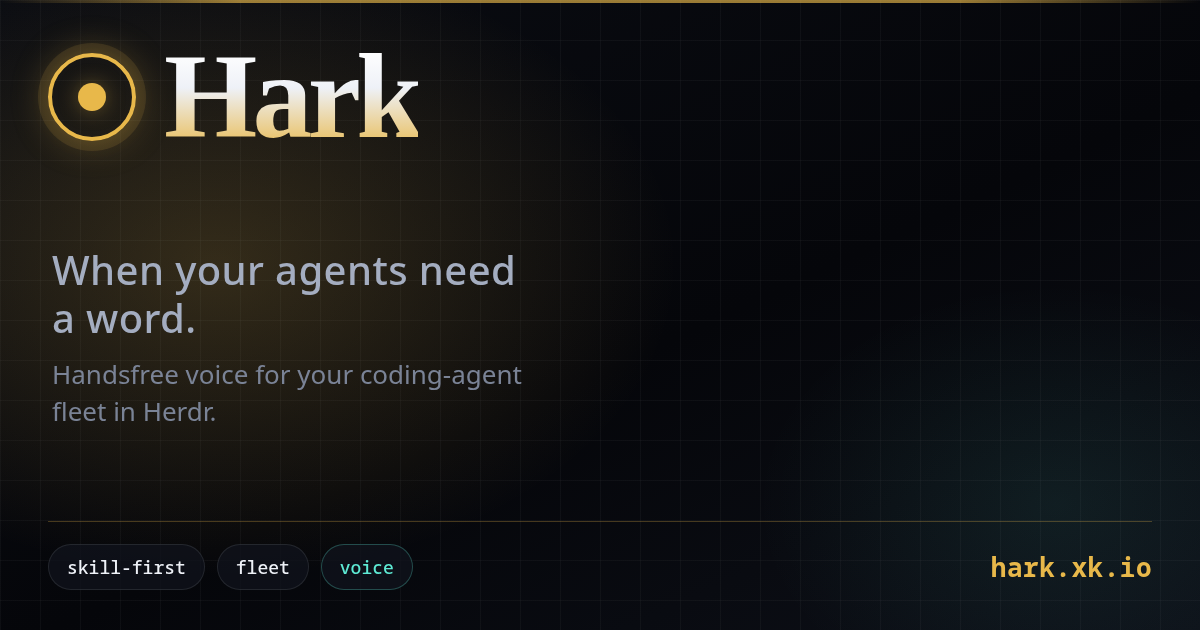
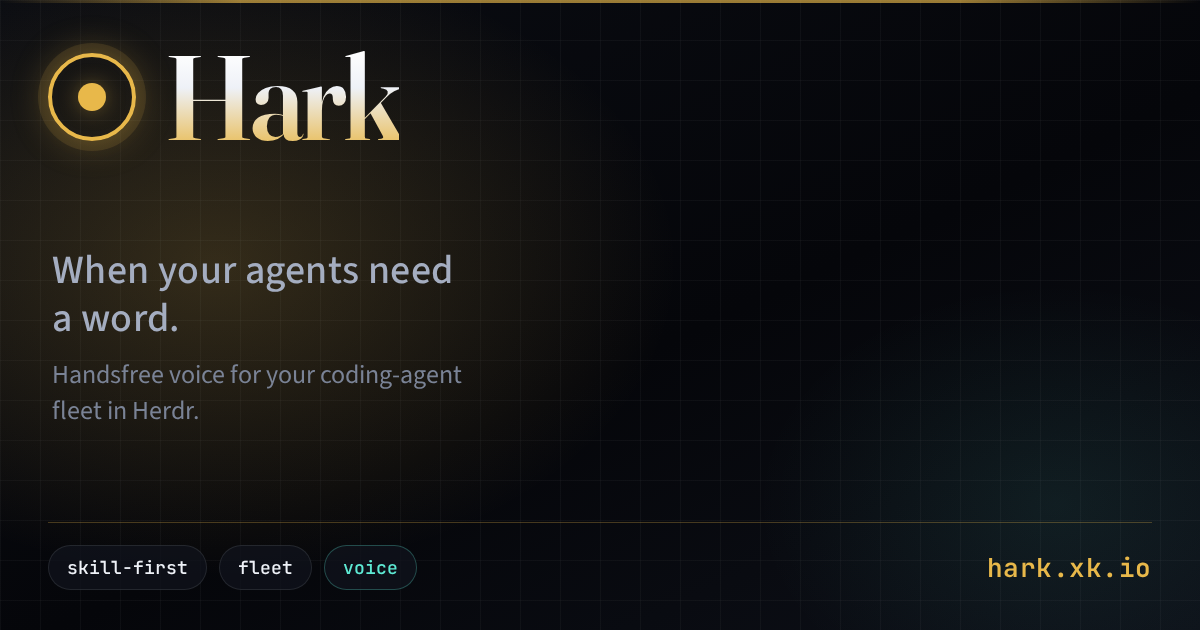
fix(B042): curated webfonts for static site typography
Replace generic system-ui stacks with intentional faces:
- Fraunces for display (wordmark, headings)
- Source Sans 3 for body/UI
- JetBrains Mono for terminal/code chrome

Load via Google Fonts (preconnect + display=swap) on index and og-image;
keep system fallbacks in tokens. Re-render og.png with webfonts.

diff --git a/site/og-image.html b/site/og-image.html
@@ -10,11 +10,18 @@
       --out site/og.png \
       --width 1200 --height 630
 
-  Self-contained except optional system font stacks (no network fonts required).
+  Webfonts match site tokens (Fraunces / Source Sans 3 / JetBrains Mono).
+  Renderer waits for document.fonts.ready before screenshot.
 -->
 <html lang="en">
   <head>
     <meta charset="utf-8" />
+    <link rel="preconnect" href="https://fonts.googleapis.com" />
+    <link rel="preconnect" href="https://fonts.gstatic.com" crossorigin />
+    <link
+      href="https://fonts.googleapis.com/css2?family=Fraunces:opsz,wght@9..144,500;9..144,600;9..144,700&family=JetBrains+Mono:wght@500;600&family=Source+Sans+3:wght@400;500;600&display=swap"
+      rel="stylesheet"
+    />
     <style>
       :root {
         --void: #05060a;
@@ -28,12 +35,9 @@
         --herald-dim: #b8892a;
         --herald-glow: rgba(232, 184, 74, 0.35);
         --signal: #5eead4;
-        --font-display: "Iowan Old Style", "Palatino Linotype", Palatino, Georgia,
-          "Times New Roman", serif;
-        --font-body: system-ui, -apple-system, "Segoe UI", Roboto, "Helvetica Neue",
-          Arial, sans-serif;
-        --font-mono: ui-monospace, "Cascadia Code", "SF Mono", Menlo, Consolas,
-          monospace;
+        --font-display: "Fraunces", Georgia, serif;
+        --font-body: "Source Sans 3", system-ui, sans-serif;
+        --font-mono: "JetBrains Mono", ui-monospace, monospace;
       }
       * {
         margin: 0;

diff --git a/site/css/tokens.css b/site/css/tokens.css
@@ -23,10 +23,15 @@
   --safe: #86efac;
   --warn: #fbbf24;
 
-  /* Type — system stacks only (no webfont downloads) */
-  --font-display: "Iowan Old Style", "Palatino Linotype", Palatino, Georgia, "Times New Roman", serif;
-  --font-body: system-ui, -apple-system, "Segoe UI", Roboto, "Helvetica Neue", Arial, sans-serif;
-  --font-mono: ui-monospace, "Cascadia Code", "SF Mono", Menlo, Consolas, monospace;
+  /* Type — curated webfonts (loaded in index.html) with system fallbacks */
+  /* Display: soft optical serif for wordmark / headings (herald voice) */
+  --font-display: "Fraunces", "Iowan Old Style", "Palatino Linotype", Palatino, Georgia, serif;
+  /* Body: humanist sans — readable UI + longform, not generic system-ui */
+  --font-body: "Source Sans 3", "Source Sans Pro", system-ui, -apple-system, "Segoe UI",
+    Roboto, "Helvetica Neue", Arial, sans-serif;
+  /* Mono: terminal / code chrome */
+  --font-mono: "JetBrains Mono", ui-monospace, "Cascadia Code", "SF Mono", Menlo, Consolas,
+    monospace;
 
   --fs-hero: clamp(3.5rem, 12vw, 8.5rem);
   --fs-h1: clamp(2rem, 5vw, 3.25rem);

diff --git a/site/index.html b/site/index.html
@@ -40,7 +40,13 @@
       content="Hark — when your agents need a word. Handsfree voice for your coding-agent fleet."
     />
     <meta name="theme-color" content="#05060a" />
-    <!-- System fonts only — no webfont network load -->
+    <!-- Curated webfonts (B042): Fraunces + Source Sans 3 + JetBrains Mono -->
+    <link rel="preconnect" href="https://fonts.googleapis.com" />
+    <link rel="preconnect" href="https://fonts.gstatic.com" crossorigin />
+    <link
+      href="https://fonts.googleapis.com/css2?family=Fraunces:opsz,wght@9..144,400;9..144,500;9..144,600;9..144,700&family=JetBrains+Mono:wght@400;500;600;700&family=Source+Sans+3:ital,wght@0,400;0,500;0,600;0,700;1,400&display=swap"
+      rel="stylesheet"
+    />
     <link rel="stylesheet" href="css/tokens.css" />
     <link rel="stylesheet" href="css/base.css" />
     <link rel="stylesheet" href="css/components.css" />

diff --git a/site/css/base.css b/site/css/base.css
@@ -15,11 +15,14 @@ body {
   min-height: 100vh;
   font-family: var(--font-body);
   font-size: var(--fs-body);
+  font-weight: 400;
   line-height: var(--lh-body);
   color: var(--ink);
   background: var(--bg-void);
   -webkit-font-smoothing: antialiased;
+  -moz-osx-font-smoothing: grayscale;
   text-rendering: optimizeLegibility;
+  font-feature-settings: "kern" 1, "liga" 1;
 }
 
 img,
@@ -45,6 +48,7 @@ h3,
 h4 {
   font-family: var(--font-display);
   font-weight: 500;
+  font-optical-sizing: auto;
   line-height: var(--lh-tight);
   letter-spacing: var(--tracking-display);
   margin: 0 0 var(--s-4);

diff --git a/site/README.md b/site/README.md
@@ -19,8 +19,20 @@ Change brand colors or type scale in **tokens only**; components consume `var(--
 `<a class="product-link" href="https://herdr.dev/">Herdr</a>` so they inherit local
 text color and underline cleanly in body, eyebrow, and verse.
 
-**Performance:** system font stacks only (no Google Fonts), static SVG diagram (no
-canvas loop), minimal CSS/JS. Prefer editing tokens over adding dependencies.
+### Typography (B042)
+
+| Role | Family | Use |
+|------|--------|-----|
+| **Display** | [Fraunces](https://fonts.google.com/specimen/Fraunces) | Wordmark, headings — soft optical serif |
+| **Body** | [Source Sans 3](https://fonts.google.com/specimen/Source+Sans+3) | UI, lede, longform |
+| **Mono** | [JetBrains Mono](https://fonts.google.com/specimen/JetBrains+Mono) | Terminal, code, chips, URLs |
+
+Loaded from Google Fonts with `preconnect` + `display=swap` in `index.html` (and
+`og-image.html` for social renders). Tokens keep system fallbacks if the network
+is blocked. Edit stacks in `css/tokens.css`.
+
+**Performance:** static SVG diagram (no canvas loop), minimal CSS/JS; three
+webfont families only. Prefer editing tokens over adding dependencies.
 
 ## Open Graph / Twitter card
 

diff --git a/CHANGELOG.md b/CHANGELOG.md
@@ -6,6 +6,10 @@ Format: sections headed `## X.Y.Z` match git tags `vX.Y.Z` and the npm package v
 
 ## Unreleased
 
+- Site typography (B042): replace generic system stacks with curated webfonts —
+  **Fraunces** (display), **Source Sans 3** (body), **JetBrains Mono** (mono) —
+  loaded with `preconnect` + `display=swap` on the marketing site and OG card.
+  See `site/README.md` and `site/css/tokens.css`.
 - Site OG card (B030 follow-up): social preview is designed as `site/og-image.html`
   and rendered to `site/og.png` via `~/.llm-general/skills/` (`og-social-previews` +
   `headless-browser-screenshots` + visual review). See `site/README.md`.